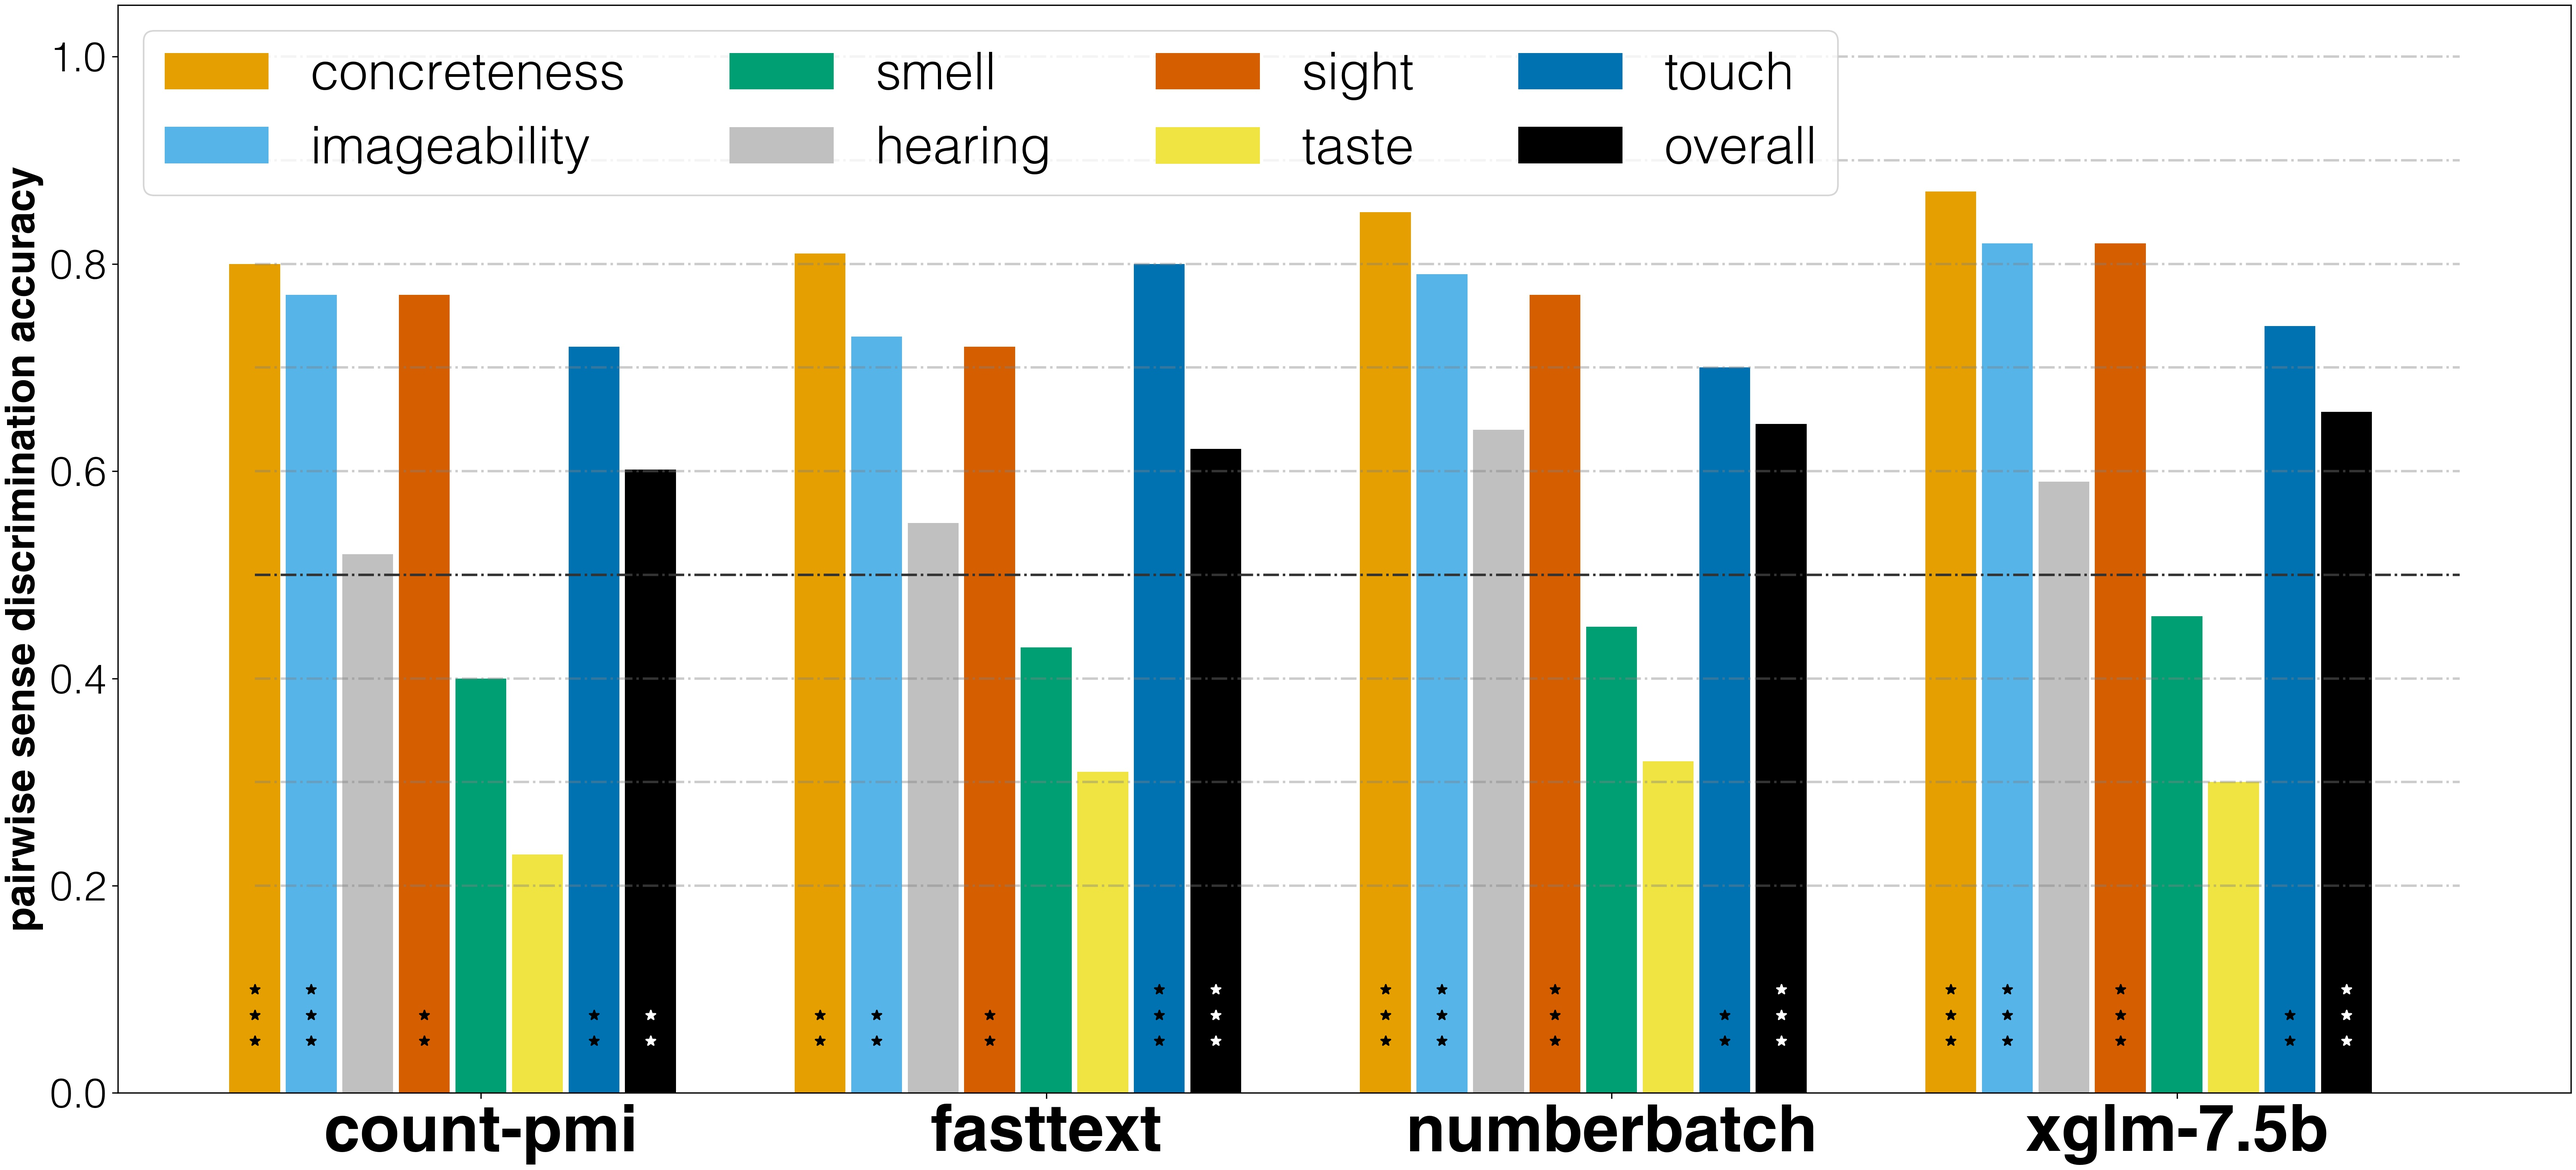
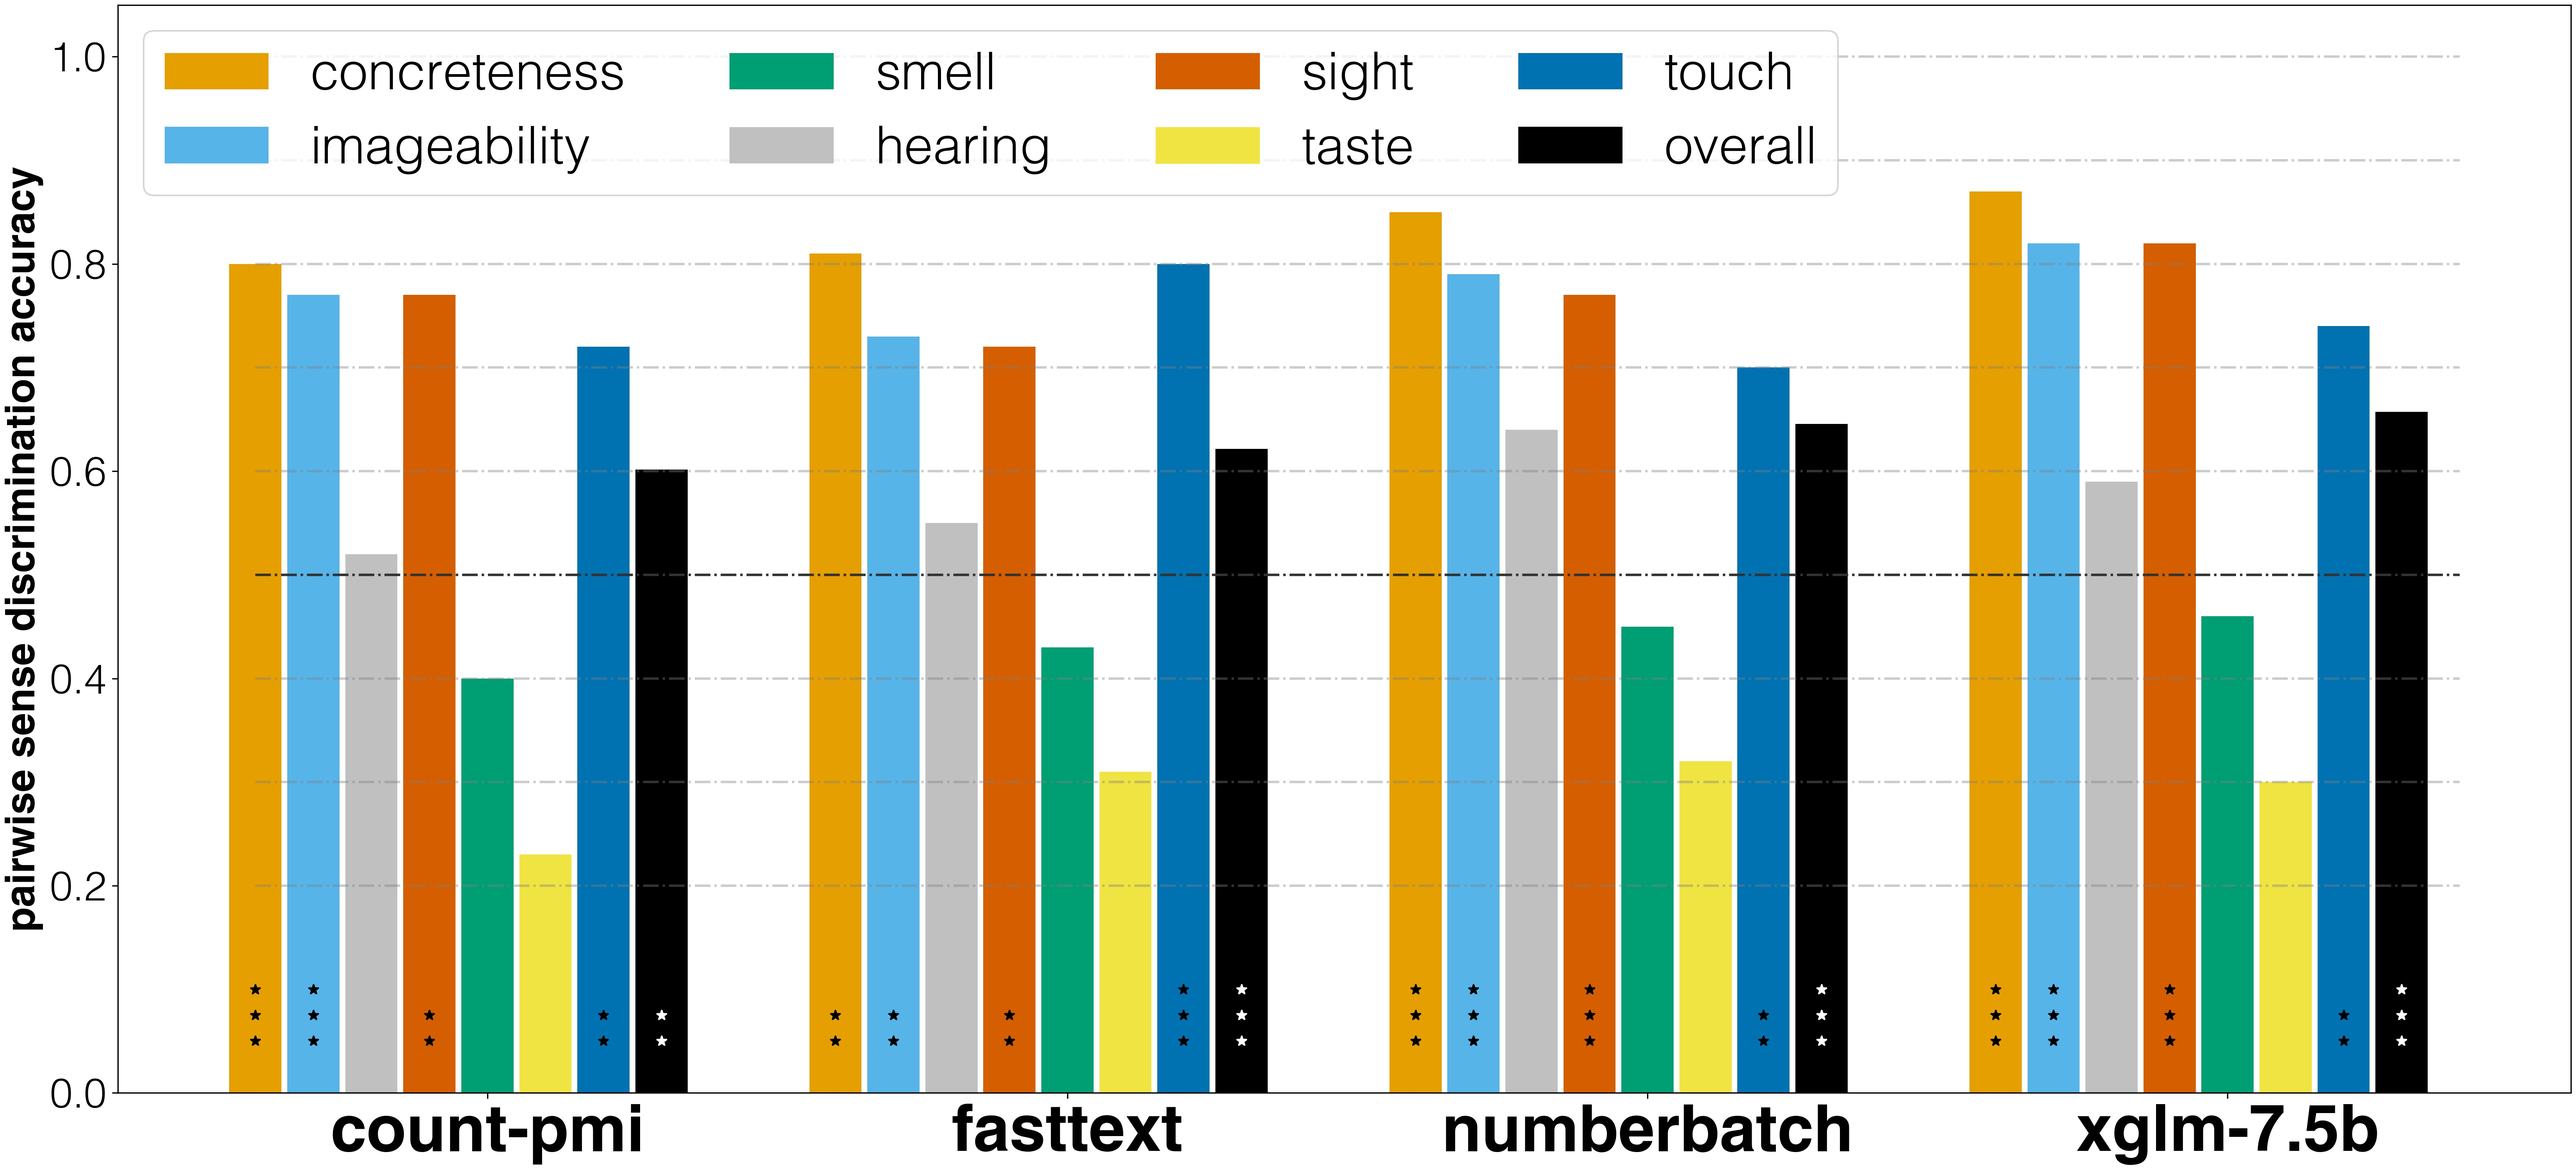
p

Changed region(s): [[0.1248, 0.217, 0.4994, 0.992], [0.7491, 0.155, 0.9676, 1.0], [0.5306, 0.155, 0.7179, 0.992]]

diff --git a/07_rsa_and_evaluation.py b/07_rsa_and_evaluation.py
@@ -488,8 +488,8 @@ with open('{}.txt'.format(out_file), 'w') as o:
                         edgecolors='black',
                         zorder=2.5,)
         '''
-ax.hlines([0.5], xmin=0., color='black', xmax=len(models_sorted)-.1, linestyles='dashdot', zorder=2.5)
-ax.hlines([0.2, 0.3, 0.4, 0.5, 0.6, 0.7, 0.8, 0.9, 1.], xmin=0., color='grey', alpha=0.4, xmax=len(models_sorted)-.1, linestyles='dashdot', zorder=2.5)
+ax.hlines([0.5], xmin=0., color='black', xmax=len(models_sorted)-.2, linestyles='dashdot', zorder=2.5)
+ax.hlines([0.2, 0.3, 0.4, 0.5, 0.6, 0.7, 0.8, 0.9, 1.], xmin=0., color='grey', alpha=0.4, xmax=len(models_sorted)-.2, linestyles='dashdot', zorder=2.5)
 ### dummy to do the legend
 
 for col_name, pal in palette.items():
